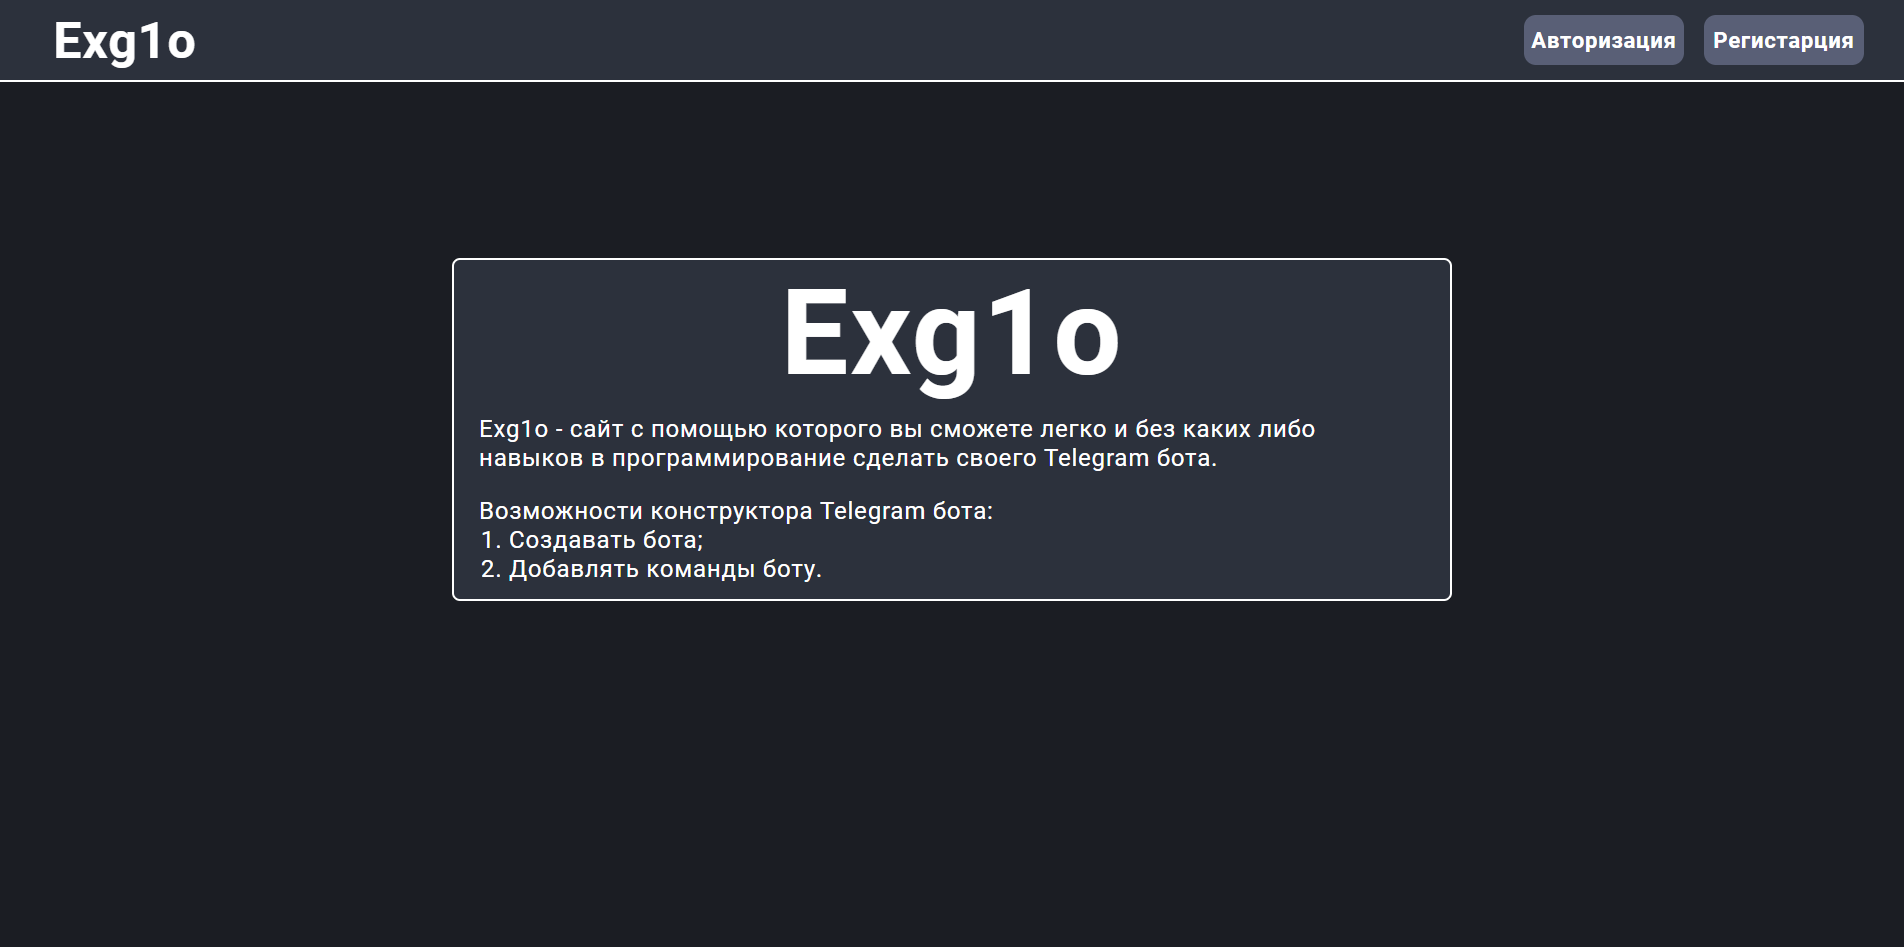
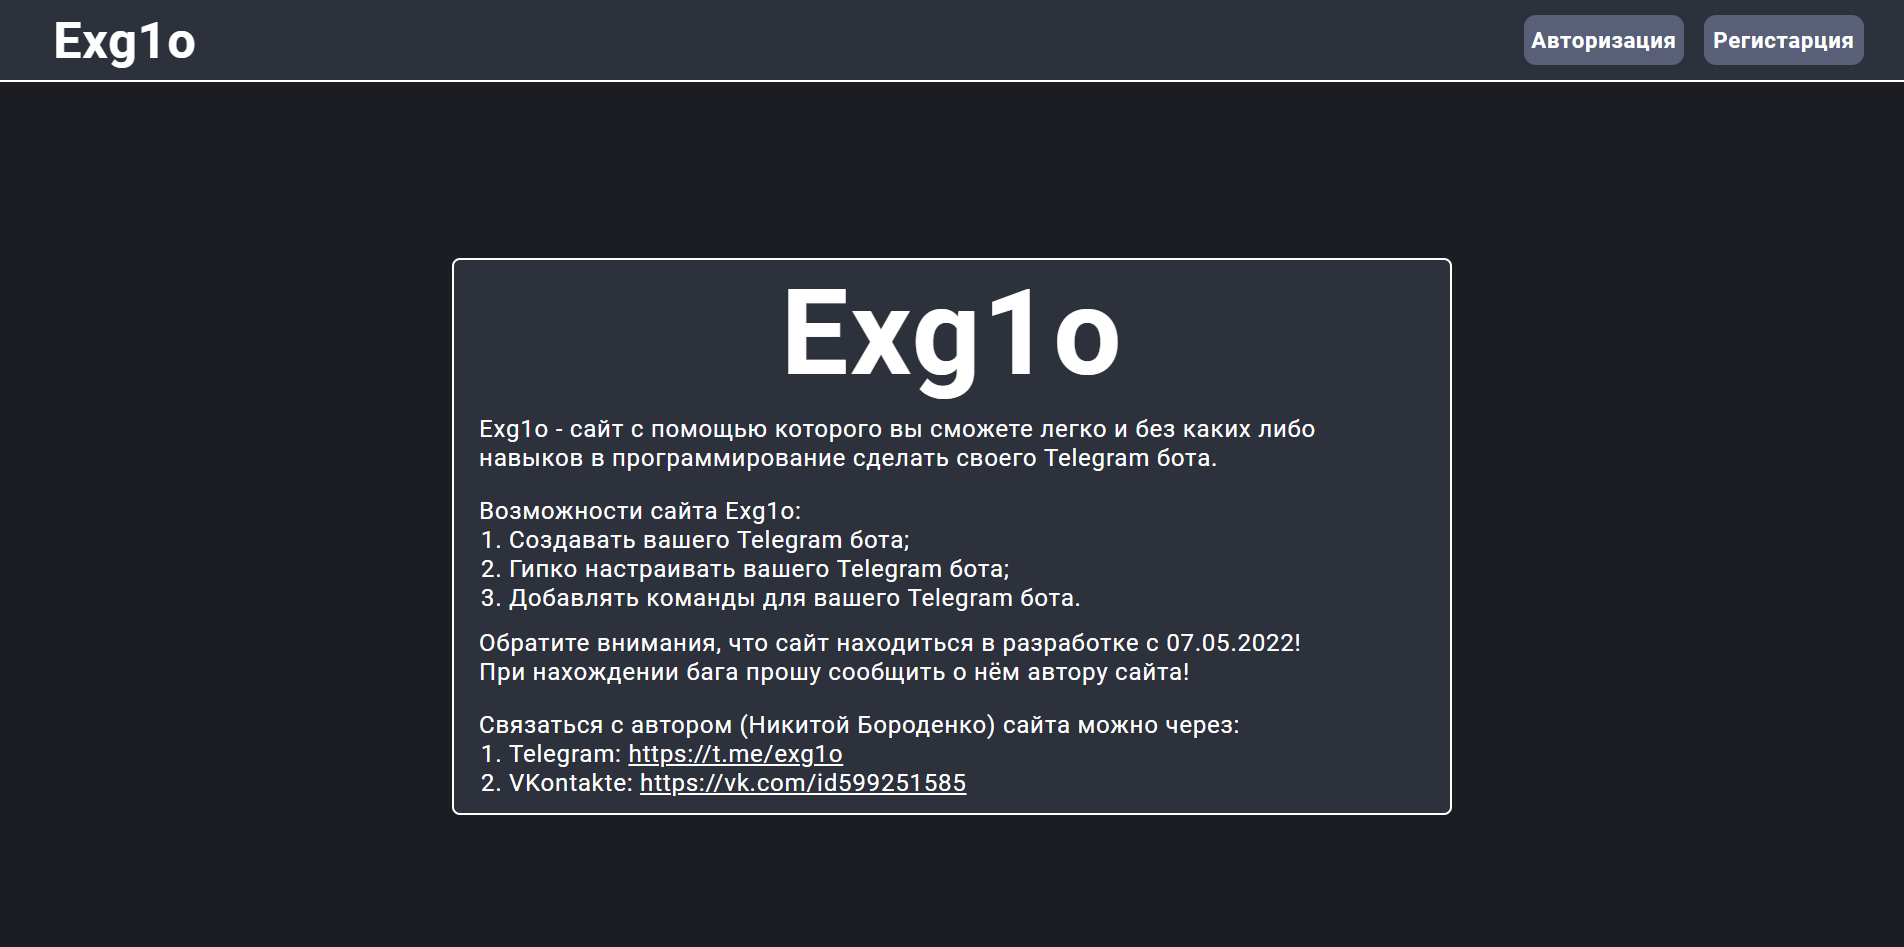
Updated GUI

Changed region(s): [[0.2169, 0.5206, 0.7747, 0.8881]]

diff --git a/exg1o/account/templates/upgrade_account.html b/exg1o/account/templates/upgrade_account.html
@@ -14,10 +14,10 @@
 		<h1 class="heading">ПОКУПКА ПЛАТНОГО АККАНУТА</h1>
 		<p class="purchase-info">
 			<b>Стоимость платного аккаунта: 1,50€.</b><br>
-			При отправлении 1,50€ на PayPal автора сайта (Никите Бороденко), ваш аккаунт будет обновлён в течении дня.<br>
-			Обратите особое внимание, на сумму, которую вы будете отправлять на PayPal автора сайта (Никите Бороденко)!<br>
-			Если вы отправите меньше или больше 1,50€, то автор сайта (Никита Бороденко) отправит деньги обратно в течении дня, но возьмёт комиссию в виде 0,25€!<br>
-			<b>При отправлении 1,50€ на PayPal автора сайта (Никите Бороденко) укажите в комментариях название вашего аккаунта!</b>
+			При отправлении 1,50€ на PayPal автора сайта, ваш аккаунт будет обновлён в течении дня.<br>
+			Обратите особое внимание, на сумму, которую вы будете отправлять на PayPal автора сайта!<br>
+			Если вы отправите меньше или больше 1,50€, то автор сайта отправит деньги обратно в течении дня, но возьмёт комиссию в виде 0,25€!<br>
+			<b>При отправлении 1,50€ на PayPal автора сайта укажите в комментариях название вашего аккаунта!</b>
 		</p>
 		<p class="author-info">
 			Связаться с автором сайта (Никитой Бороденко) можно через:

diff --git a/exg1o/main/templates/main.html b/exg1o/main/templates/main.html
@@ -18,12 +18,20 @@
 		<p class="site-info-text">
 			Exg1o - сайт с помощью которого вы сможете легко и без каких либо навыков в программирование сделать своего Telegram бота.
 		</p>
-		<p id="botInfo" class="site-info-text">
-			Возможности конструктора Telegram бота:
-			<ol id="ol" class="site-info-text">
-				<li>Создавать бота;</li>
-				<li>Добавлять команды боту.</li>
-			</ol>
+		<p id="botInfo" class="site-info-text">Возможности сайта Exg1o:</p>
+		<ol id="ol" class="site-info-text">
+			<li>Создавать вашего Telegram бота;</li>
+			<li>Гипко настраивать вашего Telegram бота;</li>
+			<li>Добавлять команды для вашего Telegram бота.</li>
+		</ol>
+		<p class="site-info-text">
+			Обратите внимания, что сайт находиться в разработке с 07.05.2022!<br>
+			При нахождении бага прошу сообщить о нём автору сайта!
 		</p>
+		<p id="importantSiteInfo" class="site-info-text">Связаться с автором (Никитой Бороденко) сайта можно через:</p>
+		<ol id="ol" class="site-info-text">
+			<li>Telegram: <a href="https://t.me/exg1o">https://t.me/exg1o</a></li>
+			<li>VKontakte: <a href="https://vk.com/id599251585">https://vk.com/id599251585</a></li>
+		</ol>
 	</div>
 {% endblock content %}

diff --git a/exg1o/static/main/main.css b/exg1o/static/main/main.css
@@ -34,11 +34,18 @@
 	margin-bottom: 0;
 }
 
+.site-info-text#importantSiteInfo {
+	margin-bottom: 0;
+}
+
 .site-info-text#ol {
 	margin-top: 0;
 	margin-bottom: 16px;
 
 	padding-left: 30px;
+
+	overflow: hidden;
+	text-overflow: ellipsis;
 }
 
 /* ------------ Адаптация ------------ */

diff --git a/exg1o/telegram_bot.py b/exg1o/telegram_bot.py
@@ -69,10 +69,3 @@ class TelegramBot: # Telegram Бот
 
 	def stop(self): # Остоновка бота
 		self.updater.stop()
-
-if __name__ == '__main__': # Тест для бота
-	bot = TelegramBot('Exg1o', 'Exg1oBot', '5573899324:AAF0DUX_sYa25-KTLTqrZBY7IvBXJSazYKA')
-	if bot.auth():
-		bot.start()
-	else:
-		print('Неверный "Token" бота!')
